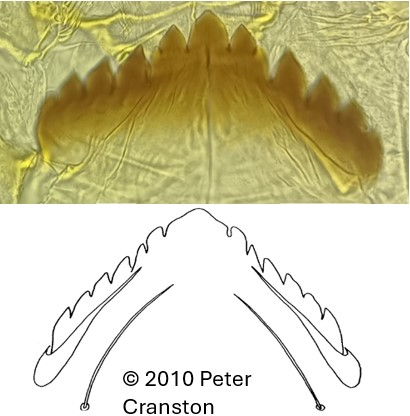
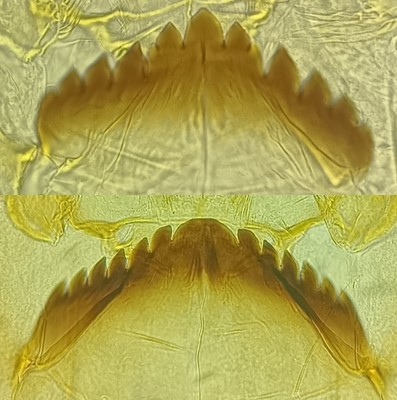
Mise à jour de Orthocladiinae et ajout d'E. devonica
+ correction de quelques erreurs

diff --git a/eukiefferiella_devonica.html b/eukiefferiella_devonica.html
@@ -3,7 +3,7 @@
 <head>
     <meta charset="UTF-8">
     <meta name="viewport" content="width=device-width, initial-scale=1.0">
-    <title>Monodiamesa - Description</title>
+    <title>Eukiefferiella type devonica</title>
     <link rel="stylesheet" href="styles.css">
 </head>
 <body>
@@ -23,42 +23,38 @@
                     <button onclick="searchTaxon()">Rechercher</button>
                 </div>
             </div>
-            <h1>Odontomesa fulva (Kieffer, 1919)</h1>
+            <h1>Eukiefferiella type devonica (Edwards, 1929)</h1>
             <div class="image-container">
-                <img src="images/odontomesa.jpg" alt="odontomesa">
+                <img src="images/eukiefferiella_type_devonica.jpg" alt="eukiefferiella_devonica">
             </div>
             <div class="characteristics">
                 <div class="characteristic">
                     <h3>Antennes</h3>
-                    <p>Lame plus longue que le flagelle.</p>
+                    <p>Antenne avec 4 ou 5 segments (généralement); segment 4 plus long ou subégal en longueur au segment 3. Lame plus courte que flagelle. 
+                        Organes Lauterborn petits jusqu'à long le segment 3. Style bien développé, généralement aussi long que le segment 3. 
+                    </p>
                 </div>
                 <div class="characteristic">
                     <h3>Mandibules</h3>
-                    <p>Dent apicale plus longue que la largeur combinée des 4 dents internes.</p>
+                    <p>Dent apicale beaucoup plus courte ou de même taille que la largeur combinée des dents internes. </p>
                 </div>
                 <div class="characteristic">
                     <h3>Mentum</h3>
-                    <p>12-14 (ou 16-18)
-                        dents. 2 dents médianes plus basses ; 1ère paire de dent
-                        latérale haute et trifide ; 4ème et 6ème paires (quand présentes)
-                        sont inférieures à la 5ème paire .</p>
-                </div>
-                <div class="characteristic">
-                    <h3>Plaques ventromentales</h3>
-                    <p>Semblables à celles des Chironomini mais portant de nombreuses soies.</p>
+                    <p> 1 dent médiane large et 4 paires de dents latérales présentes.</p>
                 </div>
                 <div class="characteristic">
                     <h3>Labre</h3>
-                    <p>SI simple avec des dents apicales.
-                        Peigne de l’épipharynx composé de 3 plaques fines et
-                        pointues. Prémandibules avec 2 dents.</p>
+                    <p>SI & SII simples. Peigne de l’épipharynx
+                        constitué de 3 écailles courtes. </p>
+                </div>
+                <div class="characteristic">
+                    <h3>Prémandibules</h3>
+                    <p> Prémandibules souvent larges et simples</p>
                 </div>
                 <div class="characteristic">
                     <h3>Ecologie</h3>
-                    <p>Les larves
-                        vivent dans les sédiments sableux et légèrement limoneux
-                        de la zone littorale des lacs. Les larves se nourrissent
-                        d'algues en utilisant une méthode de filtration passive.</p>
+                    <p>Ce genre est rencontrée principalement dans les cours d’eau
+                        turbulent.</p>
                 </div>
             </div>
         </div>

diff --git a/orthocladiinae_antennes_courtes.html b/orthocladiinae_antennes_courtes.html
@@ -41,11 +41,8 @@
                 <div class="choice-content-wrapper">
                     <div class="choice-content">
                         <a id="choice-ligula" href="orthocladiinae_mamelon.html">Dent médiane porte un « mamelon ». Plaques ventromentales petites/indistinctes. Extrémité anale
-                            sans procercus et sans soies anales distinctes. Parapodes antérieurs absents (fusionnées au corps)</a>
-                        <p>Il est possible que d’autres genres aient également un mentum qui porte un « mamelon »: Les larves de Psectrocladius et de Parakiefferiella  qui se distinguent bien par leurs plaques ventromentales développées
-                            (respectivement : arrondies et triangulaires). Le genre Paracricotopus se distingue bien par leur extrémité anale
-                            (présence de soies anales et un procercus bien développé avec une épine). Le genre Krenosmittia est caractéristique des milieux
-                            lotiques d’altitude (sources et des petits cours d’eau).</p>
+                            sans procercus et sans soies anales distinctes. </a>
+                        <p>Parapodes antérieurs absents (fusionnées au corps)</p>
                     </div>
                     <div class="choice-content">
                         <a id="choice-mentum" href="orthocladiinae_pas_de_mamelon.html">Dent médiane ne porte pas un « mamelon ».</a>
@@ -54,6 +51,10 @@
                             séparés du corps</p>
                     </div>
                 </div>
+                <p>Il est possible que d’autres genres aient également un mentum qui porte un « mamelon »: Les larves de <a href="psectrocladius.html">Psectrocladius</a> et de <a href="parakiefferiella.html">Parakiefferiella</a>  qui se distinguent bien par leurs plaques ventromentales développées
+                    (respectivement : arrondies et triangulaires). Le genre Paracricotopus se distingue bien par leur extrémité anale
+                    (présence de soies anales et un procercus bien développé avec une épine). Le genre Krenosmittia est caractéristique des milieux
+                    lotiques d’altitude (sources et des petits cours d’eau).</p>
             </div>
         </div>
     </div>   

diff --git a/tanytarsini.html b/tanytarsini.html
@@ -33,7 +33,7 @@
                         </div>
                     </div>
                 </div>
-                <p>La capsule céphalique des Tanytarsini (Figure 112) est caractérisée par un mentum bien développé, large, à bord antérieur légèrement convexe ou plat, 
+                <p>La capsule céphalique des Tanytarsini est caractérisée par un mentum bien développé, large, à bord antérieur légèrement convexe ou plat, 
                     des plaques ventromentales bien visibles, horizontales, striées verticalement, des antennes positionnées sur un socle antennaire.</p>
                 <div class="choice-content-wrapper">
                     <div class="choice-content">

diff --git a/orthocladiinae_plaques_reduites_mentum_impair.html b/orthocladiinae_plaques_reduites_mentum_impair.html
@@ -53,7 +53,7 @@
 
                 <div class="choice-content-wrapper">
                     <div class="choice-content">
-                        <a id="choice-ligula" href="eukiefferiella.html">Mentum avec 4 dents latérales, Dent centrale large et plate.</a>
+                        <a id="choice-ligula" href="eukiefferiella_devonica.html">Mentum avec 4 dents latérales, Dent centrale large et plate.</a>
                         <p>Mandibule avec 3-4 dents internes.</p>
                     </div>
                     <div class="choice-content">

diff --git a/prodiamesinae.html b/prodiamesinae.html
@@ -34,7 +34,7 @@
                     </div>
                     <div class="choice-container">
                         <div class="choice">
-                            <img src="images/prodiamesa_olivacea1.jpg" alt="Description de l'image 2">
+                            <img src="images/prodiamesa_preview.jpg" alt="Description de l'image 2">
                         </div>
                     </div>
                 </div>
